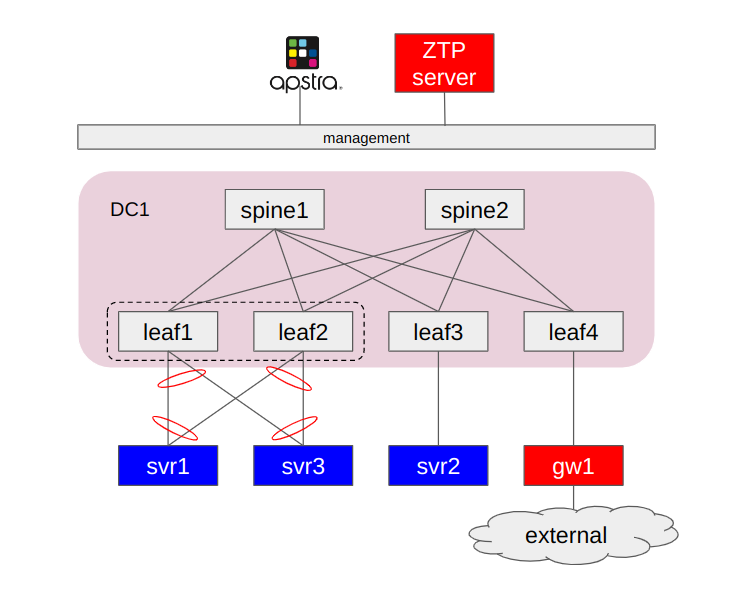
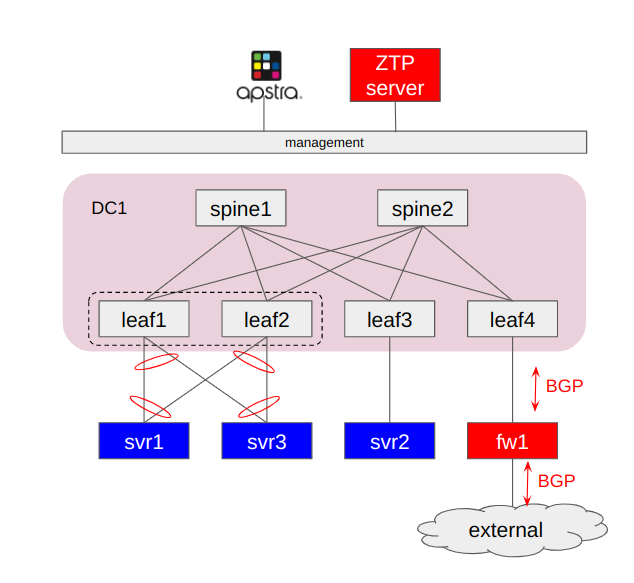
update

Changed region(s): [[0.0899, 0.0309, 0.959, 0.9571]]

diff --git a/SetupLab.md b/SetupLab.md
@@ -15,12 +15,13 @@ This is the topology of the virtual which will be setup throughout this guide.
 |leaf2 | vEX |Server Leaf with ESI-LAG|vEX disk image|
 |leaf3 | vEX |Server Leaf|vEX disk image|
 |leaf4 | vEX |Border Leaf|vEX disk image|
-|gw1 | vMX | DC gateway|vMX disk image|
+|fw1 | vSRX | DC gateway|vSRX disk image|
 |svr1 | ubuntu | Dual-homed server|ubuntu disk image|
 |svr2 | ubuntu | Single-homed server| ubuntu disk image|
 |svr3 | ubuntu | Dual-homed server|ubuntu disk image|
 |apstra| ubuntu | Juniper Apstra server | Juniper Apstra disk image| 
 |ztp | ubuntu | Juniper Apstra ZTP server | Juniper Apstra ZTP server disk image|
+
 ## Linux bridge for connection between VM
 
 |bridge | node A | Interface on node A| node Z | interface on node Z|
@@ -48,15 +49,15 @@ You can use the following table for the ip addresses or you can change it accord
 
 | Node | Interface | IP address|
 |-|-|-|
-|spine1| fxp0|10.1.100.101/24|
-|spine2| fxp0|10.1.100.102/24|
-|leaf1| fxp0|10.1.100.111/24|
-|leaf2| fxp0|10.1.100.112/24|
-|leaf3| fxp0|10.1.100.113/24|
-|leaf4| fxp0|10.1.100.114/24|
-|gw1| fxp0|10.1.100.120/24|
-|Juniper Apstra | eth0 |10.1.100.11/24|
-|Apstra ZTP | eth0 |10.1.100.12/24|
+|spine1| fxp0|10.1.101.101/24|
+|spine2| fxp0|10.1.101.102/24|
+|leaf1| fxp0|10.1.101.111/24|
+|leaf2| fxp0|10.1.101.112/24|
+|leaf3| fxp0|10.1.101.113/24|
+|leaf4| fxp0|10.1.101.114/24|
+|fw1| fxp0|10.1.101.121/24|
+|Juniper Apstra | eth0 |10.1.101.11/24|
+|Apstra ZTP | eth0 |10.1.101.12/24|
 
 ## Create and Start the Virtual MAchines
 1. Upload the disk image into Server
@@ -101,8 +102,8 @@ You can use the following table for the ip addresses or you can change it accord
 3. Login using default username/password: admin/admin, and change the password.
 4. Set static ip for Apstra server. for example in this lab, this is the network configuration of apstra server
 
-        ip address: 10.1.100.11/24
-        gateway: 10.1.100.1
+        ip address: 10.1.101.11/24
+        gateway: 10.1.101.1
         dns server: 192.168.10.1
 
 5. Verify that you can open ssh session into apstra server.
@@ -145,8 +146,8 @@ You can use the following table for the ip addresses or you can change it accord
 3. Login using default username/password: admin/admin.
 4. Set static ip address for Apstra ZTP server
 
-        IP address: 10.1.100.12/24
-        gateway4: 10.1.100.1
+        IP address: 10.1.101.12/24
+        gateway4: 10.1.101.1
         DNS server: 192.168.10.1
 5. Or the following script, [set_ztp_net.sh](scripts/set_ztp_net.sh) to set the ip address of ZTP server
 
@@ -157,8 +158,8 @@ You can use the following table for the ip addresses or you can change it accord
             ethernets:
                 eth0:
                     dhcp4: false
-                    addresses: [ 10.1.100.12/24]
-                    gateway4: 10.1.100.1
+                    addresses: [ 10.1.101.12/24]
+                    gateway4: 10.1.101.1
                     nameservers:
                         addresses: [ 192.168.10.1 ]
         EOF
